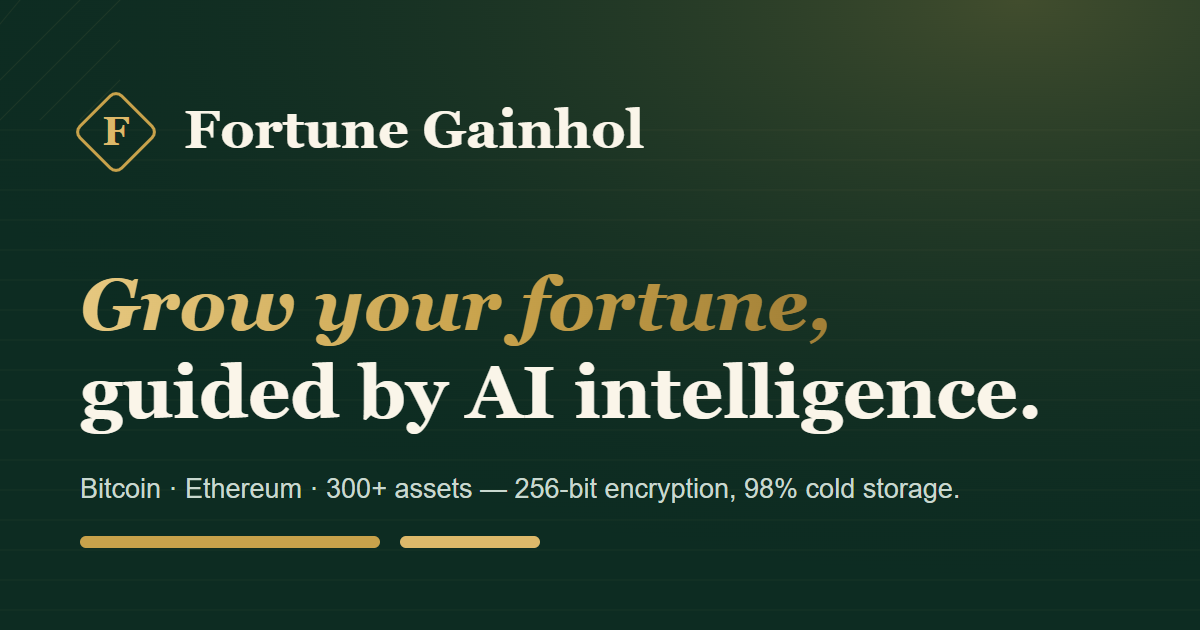
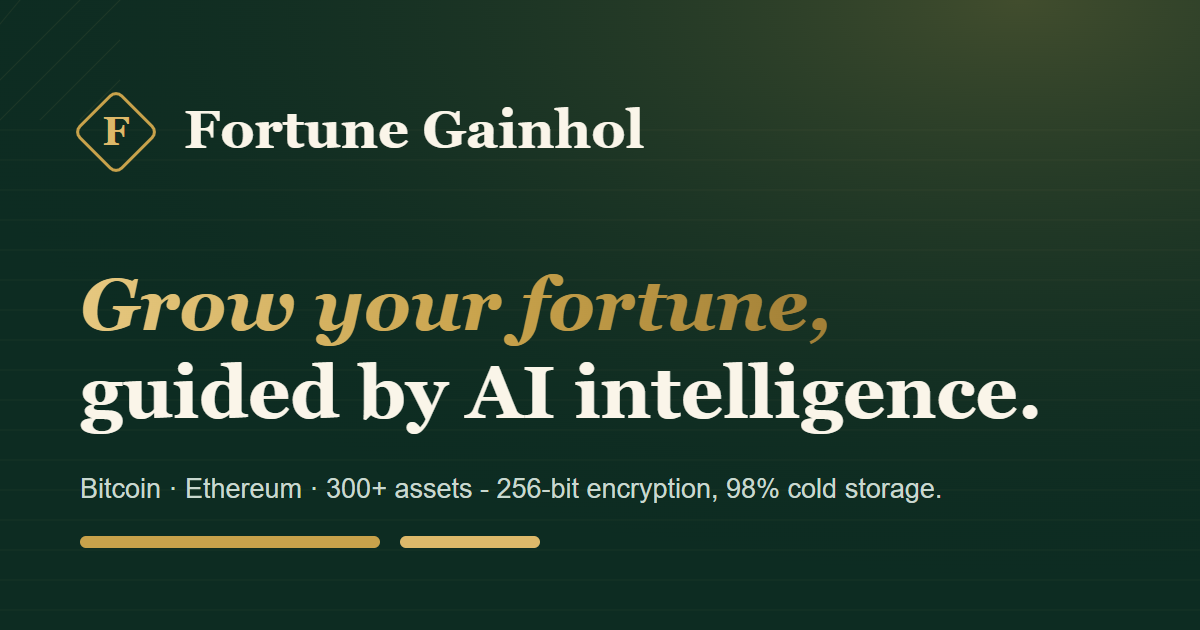
Replace em dashes with hyphens in all website copy

Changed region(s): [[0.4008, 0.754, 0.8017, 0.8143]]

diff --git a/src/data/content.js b/src/data/content.js
@@ -26,11 +26,11 @@ export const HERO = {
   badge: 'Now live across Australia',
   title: ['Grow your', 'fortune', 'with Gainhol intelligence'],
   // `title` is [before, highlighted, after] - the highlighted word gets gold.
-  lead: 'Fortune Gainhol is an AI-powered trading platform for Bitcoin, Ethereum and 300+ assets — built to help you grow your fortune with bank-grade security, human support and insight you can act on.',
+  lead: 'Fortune Gainhol is an AI-powered trading platform for Bitcoin, Ethereum and 300+ assets - built to help you grow your fortune with bank-grade security, human support and insight you can act on.',
   trust: ['256-bit SSL encryption', '98% cold storage', '24/7 support'],
   formTitle: 'Create your free account',
   formSubtitle:
-    'Join thousands of Australian investors on Fortune Gainhol — registration takes under two minutes.',
+    'Join thousands of Australian investors on Fortune Gainhol - registration takes under two minutes.',
 }
 
 export const ABOUT_PAGE = {
@@ -38,7 +38,7 @@ export const ABOUT_PAGE = {
     kicker: 'Our story',
     title: 'Built for the long game, engineered for everyone',
     paragraphs: [
-      'Fortune Gainhol began with a simple frustration: serious wealth-building tools were locked behind complicated platforms, hidden fees and jargon. We believed everyday investors deserved better — so we built it.',
+      'Fortune Gainhol began with a simple frustration: serious wealth-building tools were locked behind complicated platforms, hidden fees and jargon. We believed everyday investors deserved better - so we built it.',
       'Today, Fortune Gainhol combines an advanced AI-driven trading engine with institutional-grade security and an interface anyone can master in minutes. From your first Bitcoin to a diversified multi-asset portfolio, everything you need to grow your fortune lives in one place.',
     ],
     facts: ['Founded 2018', 'Sydney HQ', '300+ instruments', '24/7 human support'],
@@ -50,7 +50,7 @@ export const ABOUT_PAGE = {
       {
         icon: 'shield',
         title: 'Security by default',
-        text: '256-bit encryption, 98% cold storage and two-factor authentication on every account — before anything else.',
+        text: '256-bit encryption, 98% cold storage and two-factor authentication on every account - before anything else.',
       },
       {
         icon: 'scale',
@@ -65,7 +65,7 @@ export const ABOUT_PAGE = {
       {
         icon: 'headset',
         title: 'Human support',
-        text: 'A real person answers 24/7 — not a bot loop. Every client gets a dedicated account manager from day one.',
+        text: 'A real person answers 24/7 - not a bot loop. Every client gets a dedicated account manager from day one.',
       },
     ],
   },
@@ -75,11 +75,11 @@ export const ABOUT_PAGE = {
     items: [
       {
         title: 'AI that works while you sleep',
-        text: 'Our engine scans global markets around the clock and delivers signals with a 92% accuracy rate — so opportunities never pass you by.',
+        text: 'Our engine scans global markets around the clock and delivers signals with a 92% accuracy rate - so opportunities never pass you by.',
       },
       {
         title: 'Bank-grade custody, not promises',
-        text: 'Client funds are held in segregated accounts, and 98% of digital assets sit in offline cold wallets — unreachable by anyone but you.',
+        text: 'Client funds are held in segregated accounts, and 98% of digital assets sit in offline cold wallets - unreachable by anyone but you.',
       },
       {
         title: 'Built for the way Australians invest',
@@ -92,7 +92,7 @@ export const ABOUT_PAGE = {
 export const PRODUCT_PAGE = {
   hero: {
     title: "Grow your portfolio with Fortune Gainhol's analytics platform",
-    lead: 'Track live market movements, follow AI-driven signals and grow your fortune with tools designed for investors at every level — from first-timers to pros.',
+    lead: 'Track live market movements, follow AI-driven signals and grow your fortune with tools designed for investors at every level - from first-timers to pros.',
   },
   intro: {
     kicker: 'Built for you',
@@ -107,7 +107,7 @@ export const PRODUCT_PAGE = {
     {
       icon: 'pie',
       title: 'Every Asset, One Portfolio',
-      text: 'See crypto, equities, forex and commodities together in one place — no more juggling multiple apps.',
+      text: 'See crypto, equities, forex and commodities together in one place - no more juggling multiple apps.',
     },
     {
       icon: 'bolt',
@@ -117,7 +117,7 @@ export const PRODUCT_PAGE = {
     {
       icon: 'device',
       title: 'Trade From Anywhere',
-      text: 'Your portfolio goes where you go — desktop, tablet or mobile, synced instantly.',
+      text: 'Your portfolio goes where you go - desktop, tablet or mobile, synced instantly.',
     },
     {
       icon: 'book',
@@ -135,7 +135,7 @@ export const PRODUCT_PAGE = {
     title: 'The Fortune Gainhol Trading Experience',
     text: 'Everything you need to trade with confidence, engineered into one platform.',
     points: [
-      'Live portfolio tracking — watch every position and allocation update in real time',
+      'Live portfolio tracking - watch every position and allocation update in real time',
       'Pro-grade charts with 80+ indicators to help time your entries',
       'Instant orders on Bitcoin, Ethereum and 300+ other markets',
       'Secure custody with 98% cold storage and two-factor protection',
@@ -153,19 +153,19 @@ export const STATS = [
 export const ABOUT = {
   kicker: 'Meet Fortune Gainhol',
   title: 'One secure platform for growing your fortune',
-  text: 'Fortune Gainhol brings together an advanced AI-driven trading engine, institutional-grade security and an interface anyone can master — so whether you are buying your first Bitcoin or diversifying across 300+ instruments, everything you need to build wealth is in one place.',
+  text: 'Fortune Gainhol brings together an advanced AI-driven trading engine, institutional-grade security and an interface anyone can master - so whether you are buying your first Bitcoin or diversifying across 300+ instruments, everything you need to build wealth is in one place.',
   points: [
     'AI-assisted market signals with 92% accuracy',
     'Beginner-friendly, with no prior trading experience required',
     'Bank-grade security with 256-bit encryption',
-    'Full control — deposit, trade and withdraw at any time',
+    'Full control - deposit, trade and withdraw at any time',
   ],
 }
 
 export const ASSETS = {
   kicker: 'Global markets, one account',
   title: "Trade the world's biggest markets from one simple account",
-  text: 'Trade the coins investors trust most, alongside equities, forex, commodities and precious metals — all from a single Fortune Gainhol account.',
+  text: 'Trade the coins investors trust most, alongside equities, forex, commodities and precious metals - all from a single Fortune Gainhol account.',
   list: [
     { icon: '/images/coins/btc.svg', name: 'Bitcoin', tag: 'BTC · the original digital asset' },
     { icon: '/images/coins/eth.svg', name: 'Ethereum', tag: 'ETH · smart contracts & DeFi' },
@@ -184,7 +184,7 @@ export const STEPS = {
     {
       icon: 'user',
       title: 'Create your free account',
-      text: 'Sign up in under two minutes with your name, email and phone number. No trading experience needed — your dedicated account manager guides you from day one.',
+      text: 'Sign up in under two minutes with your name, email and phone number. No trading experience needed - your dedicated account manager guides you from day one.',
     },
     {
       icon: 'wallet',
@@ -194,7 +194,7 @@ export const STEPS = {
     {
       icon: 'sparkle',
       title: 'Start trading with AI support',
-      text: 'Follow AI-generated market signals, mirror seasoned investors or build your own portfolio — on desktop or mobile, whenever you like.',
+      text: 'Follow AI-generated market signals, mirror seasoned investors or build your own portfolio - on desktop or mobile, whenever you like.',
     },
   ],
 }
@@ -204,7 +204,7 @@ export const JOIN = {
   title: 'Open Your Account and Start Growing Your Fortune',
   text: 'Opening an account takes less than two minutes. Explore the market with AI-powered insight and see for yourself why investors across Australia are choosing Fortune Gainhol.',
   points: [
-    'Free registration — no hidden fees to open an account',
+    'Free registration - no hidden fees to open an account',
     'AI-driven signals with a 92% accuracy rate',
     'Withdraw your funds whenever you want',
   ],
@@ -217,7 +217,7 @@ export const CALCULATOR = {
   balanceLabel: 'Potential future balance',
   monthlyLabel: 'Estimated monthly earnings',
   disclaimer:
-    'Illustrative projection based on an 8.2% monthly rate over 12 months. Trading involves significant risk — projections are not a guarantee of profit.',
+    'Illustrative projection based on an 8.2% monthly rate over 12 months. Trading involves significant risk - projections are not a guarantee of profit.',
 }
 
 export const BENEFITS = {
@@ -233,7 +233,7 @@ export const BENEFITS = {
     {
       icon: 'copy',
       title: 'Copy Trading',
-      text: 'Mirror the moves of experienced, profitable investors — automatically, with a single click.',
+      text: 'Mirror the moves of experienced, profitable investors - automatically, with a single click.',
     },
     {
       icon: 'pie',
@@ -248,12 +248,12 @@ export const BENEFITS = {
     {
       icon: 'device',
       title: 'Mobile App & Multi-Device',
-      text: 'Trade seamlessly across desktop, tablet and mobile — your account stays in sync everywhere.',
+      text: 'Trade seamlessly across desktop, tablet and mobile - your account stays in sync everywhere.',
     },
     {
       icon: 'headset',
       title: '24/7 Human Support',
-      text: 'Real people, real answers — our support team is available around the clock, every day of the year.',
+      text: 'Real people, real answers - our support team is available around the clock, every day of the year.',
     },
   ],
 }
@@ -284,7 +284,7 @@ export const TESTIMONIALS = {
     {
       name: 'James T.',
       place: 'Canberra, Australia',
-      text: "I'd never traded crypto before signing up. The AI signals did the heavy lifting and my account manager walked me through my first deposit. Six months in, my portfolio is actually growing — I still can't quite believe how easy Fortune Gainhol made it.",
+      text: "I'd never traded crypto before signing up. The AI signals did the heavy lifting and my account manager walked me through my first deposit. Six months in, my portfolio is actually growing - I still can't quite believe how easy Fortune Gainhol made it.",
       stars: 5,
     },
     {
@@ -296,7 +296,7 @@ export const TESTIMONIALS = {
     {
       name: 'Robert C.',
       place: 'Hobart, Australia',
-      text: 'Security was my number one concern — 98% cold storage and 2FA on every withdrawal was what convinced me to sign up. Eight months of trading on Fortune Gainhol and not a single moment of worry.',
+      text: 'Security was my number one concern - 98% cold storage and 2FA on every withdrawal was what convinced me to sign up. Eight months of trading on Fortune Gainhol and not a single moment of worry.',
       stars: 5,
     },
     {
@@ -323,7 +323,7 @@ export const TESTIMONIALS = {
 export const SECURITY = {
   kicker: 'Security first',
   title: 'Bank-Grade Protection for Your Fortune',
-  text: 'We built Fortune Gainhol on one principle: your assets and your data deserve bank-grade protection — at every step, every day.',
+  text: 'We built Fortune Gainhol on one principle: your assets and your data deserve bank-grade protection - at every step, every day.',
   bigStat: '98%',
   bigStatLabel: 'of assets held in offline cold wallets with no internet connection',
   items: [
@@ -373,7 +373,7 @@ export const CAPABILITIES = {
     {
       icon: 'device',
       title: 'Multi-device sync',
-      text: 'Start on desktop, finish on mobile — perfectly in sync.',
+      text: 'Start on desktop, finish on mobile - perfectly in sync.',
     },
     {
       icon: 'pie',
@@ -397,7 +397,7 @@ export const FINAL_CTA = {
 export const FAQS = [
   {
     q: 'What is Fortune Gainhol?',
-    a: 'Fortune Gainhol is an AI-powered trading platform where you can trade Bitcoin, Ethereum and 300+ other assets — including equities, forex, commodities and CFDs — from one secure account. It is designed for beginners and experienced investors alike.',
+    a: 'Fortune Gainhol is an AI-powered trading platform where you can trade Bitcoin, Ethereum and 300+ other assets - including equities, forex, commodities and CFDs - from one secure account. It is designed for beginners and experienced investors alike.',
   },
   {
     q: 'How do I get started with Fortune Gainhol?',
@@ -405,15 +405,15 @@ export const FAQS = [
   },
   {
     q: 'Is Fortune Gainhol safe?',
-    a: 'Yes. Fortune Gainhol protects your assets with 256-bit SSL encryption, two-factor authentication and cold storage — 98% of assets are held in offline wallets with no internet connection. We are also fully KYC/AML compliant.',
+    a: 'Yes. Fortune Gainhol protects your assets with 256-bit SSL encryption, two-factor authentication and cold storage - 98% of assets are held in offline wallets with no internet connection. We are also fully KYC/AML compliant.',
   },
   {
     q: 'What assets can I trade on Fortune Gainhol?',
-    a: 'You can trade major cryptocurrencies like Bitcoin, Ethereum, Solana and Dogecoin, as well as equities, forex pairs, commodities, precious metals and CFDs — over 300 instruments in total.',
+    a: 'You can trade major cryptocurrencies like Bitcoin, Ethereum, Solana and Dogecoin, as well as equities, forex pairs, commodities, precious metals and CFDs - over 300 instruments in total.',
   },
   {
     q: 'Do I need trading experience to use Fortune Gainhol?',
-    a: 'Not at all. The platform is built for beginners — AI signals, copy trading and educational resources do the heavy lifting while you learn at your own pace.',
+    a: 'Not at all. The platform is built for beginners - AI signals, copy trading and educational resources do the heavy lifting while you learn at your own pace.',
   },
   {
     q: 'How do I withdraw my funds?',
@@ -427,7 +427,7 @@ export const FAQS = [
 
 export const FOOTER = {
   blurb:
-    'Fortune Gainhol is an AI-powered multi-asset trading platform offering cryptocurrencies, equities, forex and more — with 256-bit encryption and 98% cold storage.',
+    'Fortune Gainhol is an AI-powered multi-asset trading platform offering cryptocurrencies, equities, forex and more - with 256-bit encryption and 98% cold storage.',
   navTitle: 'Company',
   legalTitle: 'Legal',
   contactTitle: 'Contact',
@@ -437,7 +437,7 @@ export const FOOTER = {
     { icon: 'globe', text: 'Now available in Australia' },
   ],
   risk: [
-    'Risk Disclosure: Trading cryptocurrencies, forex, CFDs and other leveraged instruments involves substantial risk of loss and is not suitable for every investor. The value of digital assets can be highly volatile, and you may lose more than your initial investment. Past performance and AI projections are not indicative of future results. You should carefully consider your objectives, level of experience and risk appetite before trading, and never trade with funds you cannot afford to lose. Fortune Gainhol does not provide investment advice — nothing on this website constitutes a solicitation, recommendation or offer to buy or sell any financial instrument. Consult an independent financial advisor if you have any doubts. Accuracy figures, earnings projections and testimonials are illustrative marketing material, not guarantees.',
+    'Risk Disclosure: Trading cryptocurrencies, forex, CFDs and other leveraged instruments involves substantial risk of loss and is not suitable for every investor. The value of digital assets can be highly volatile, and you may lose more than your initial investment. Past performance and AI projections are not indicative of future results. You should carefully consider your objectives, level of experience and risk appetite before trading, and never trade with funds you cannot afford to lose. Fortune Gainhol does not provide investment advice - nothing on this website constitutes a solicitation, recommendation or offer to buy or sell any financial instrument. Consult an independent financial advisor if you have any doubts. Accuracy figures, earnings projections and testimonials are illustrative marketing material, not guarantees.',
     'Trading services described on this website may not be available in all jurisdictions. It is your responsibility to ensure that your use of the platform complies with the laws and regulations applicable in your country of residence.',
   ],
   legalLinks: [

diff --git a/src/pages/Contacts.jsx b/src/pages/Contacts.jsx
@@ -93,7 +93,7 @@ export default function Contacts() {
               <h2 data-reveal>Register and a manager will reach out to you</h2>
               <p data-reveal>
                 Fill in the form and one of our account managers will contact you shortly to
-                activate your account and answer any questions you have — no obligation, no
+                activate your account and answer any questions you have - no obligation, no
                 pressure.
               </p>
               <ul className="join__points">
@@ -101,7 +101,7 @@ export default function Contacts() {
                   <span className="point-mark">
                     <Icon name="check" size={15} strokeWidth={3} />
                   </span>
-                  Free registration — cancel anytime
+                  Free registration - cancel anytime
                 </li>
                 <li data-reveal>
                   <span className="point-mark">

diff --git a/src/styles/global.css b/src/styles/global.css
@@ -1,5 +1,5 @@
 /* ============================================================
-   Fortune Gainhol — "heritage fortune" design system
+   Fortune Gainhol - "heritage fortune" design system
    Deep pine green + antique gold on warm ivory. Fraunces serif
    display, Inter body, diamond lozenges and certificate frames.
    ============================================================ */
@@ -315,7 +315,7 @@ button {
   display: none;
 }
 
-/* highlighted keyword — antique-gold gradient serif */
+/* highlighted keyword - antique-gold gradient serif */
 .hl {
   background: linear-gradient(100deg, #e6c880, var(--gold) 55%, #b08a3e);
   -webkit-background-clip: text;

diff --git a/src/components/Art.jsx b/src/components/Art.jsx
@@ -147,7 +147,7 @@ export function GrowthArt({ className }) {
         <text x="105" y="174" textAnchor="middle" fontSize="15" fontWeight="700" fill="#0d2c22" fontFamily="Inter, Arial, sans-serif">Get started</text>
       </g>
 
-      <text x="40" y="398" fontFamily="Inter, Arial, sans-serif" fontSize="12" fill="#c9d8cf">Illustrative artwork — trading involves significant risk</text>
+      <text x="40" y="398" fontFamily="Inter, Arial, sans-serif" fontSize="12" fill="#c9d8cf">Illustrative artwork - trading involves significant risk</text>
     </svg>
   )
 }

diff --git a/src/pages/AboutUs.jsx b/src/pages/AboutUs.jsx
@@ -21,7 +21,7 @@ export default function AboutUs() {
         <div className="container">
           <h1 data-reveal>About Fortune Gainhol</h1>
           <p data-reveal>
-            We built Fortune Gainhol to make world-class investing simple, secure and accessible —
+            We built Fortune Gainhol to make world-class investing simple, secure and accessible -
             powered by an AI engine, protected by bank-grade security.
           </p>
         </div>

diff --git a/src/components/ComingSoon.jsx b/src/components/ComingSoon.jsx
@@ -11,7 +11,7 @@ export default function ComingSoon({ title, description }) {
         </div>
         <h1>{title}</h1>
         <p>
-          {description} This page is part of the next iteration of fortunegain-hol.com — check back
+          {description} This page is part of the next iteration of fortunegain-hol.com - check back
           soon.
         </p>
         <div style={{ display: 'flex', gap: 14, justifyContent: 'center', flexWrap: 'wrap' }}>

diff --git a/vite.config.js b/vite.config.js
@@ -5,7 +5,7 @@ import { defineConfig } from 'vite'
 export default defineConfig({
   plugins: [react()],
   resolve: {
-    // Ship Preact's compatibility layer instead of React — same API,
+    // Ship Preact's compatibility layer instead of React - same API,
     // much smaller runtime and faster first render (mobile perf).
     alias: [
       { find: 'react', replacement: 'preact/compat' },

diff --git a/src/pages/SignUp.jsx b/src/pages/SignUp.jsx
@@ -4,7 +4,7 @@ import useMeta from '../hooks/useMeta'
 import { SITE_URL } from '../data/content'
 
 const POINTS = [
-  'Free registration — no hidden fees to open an account',
+  'Free registration - no hidden fees to open an account',
   'AI-driven signals with a 92% accuracy rate',
   '98% of assets held in offline cold storage',
   'Withdraw your funds whenever you want',
